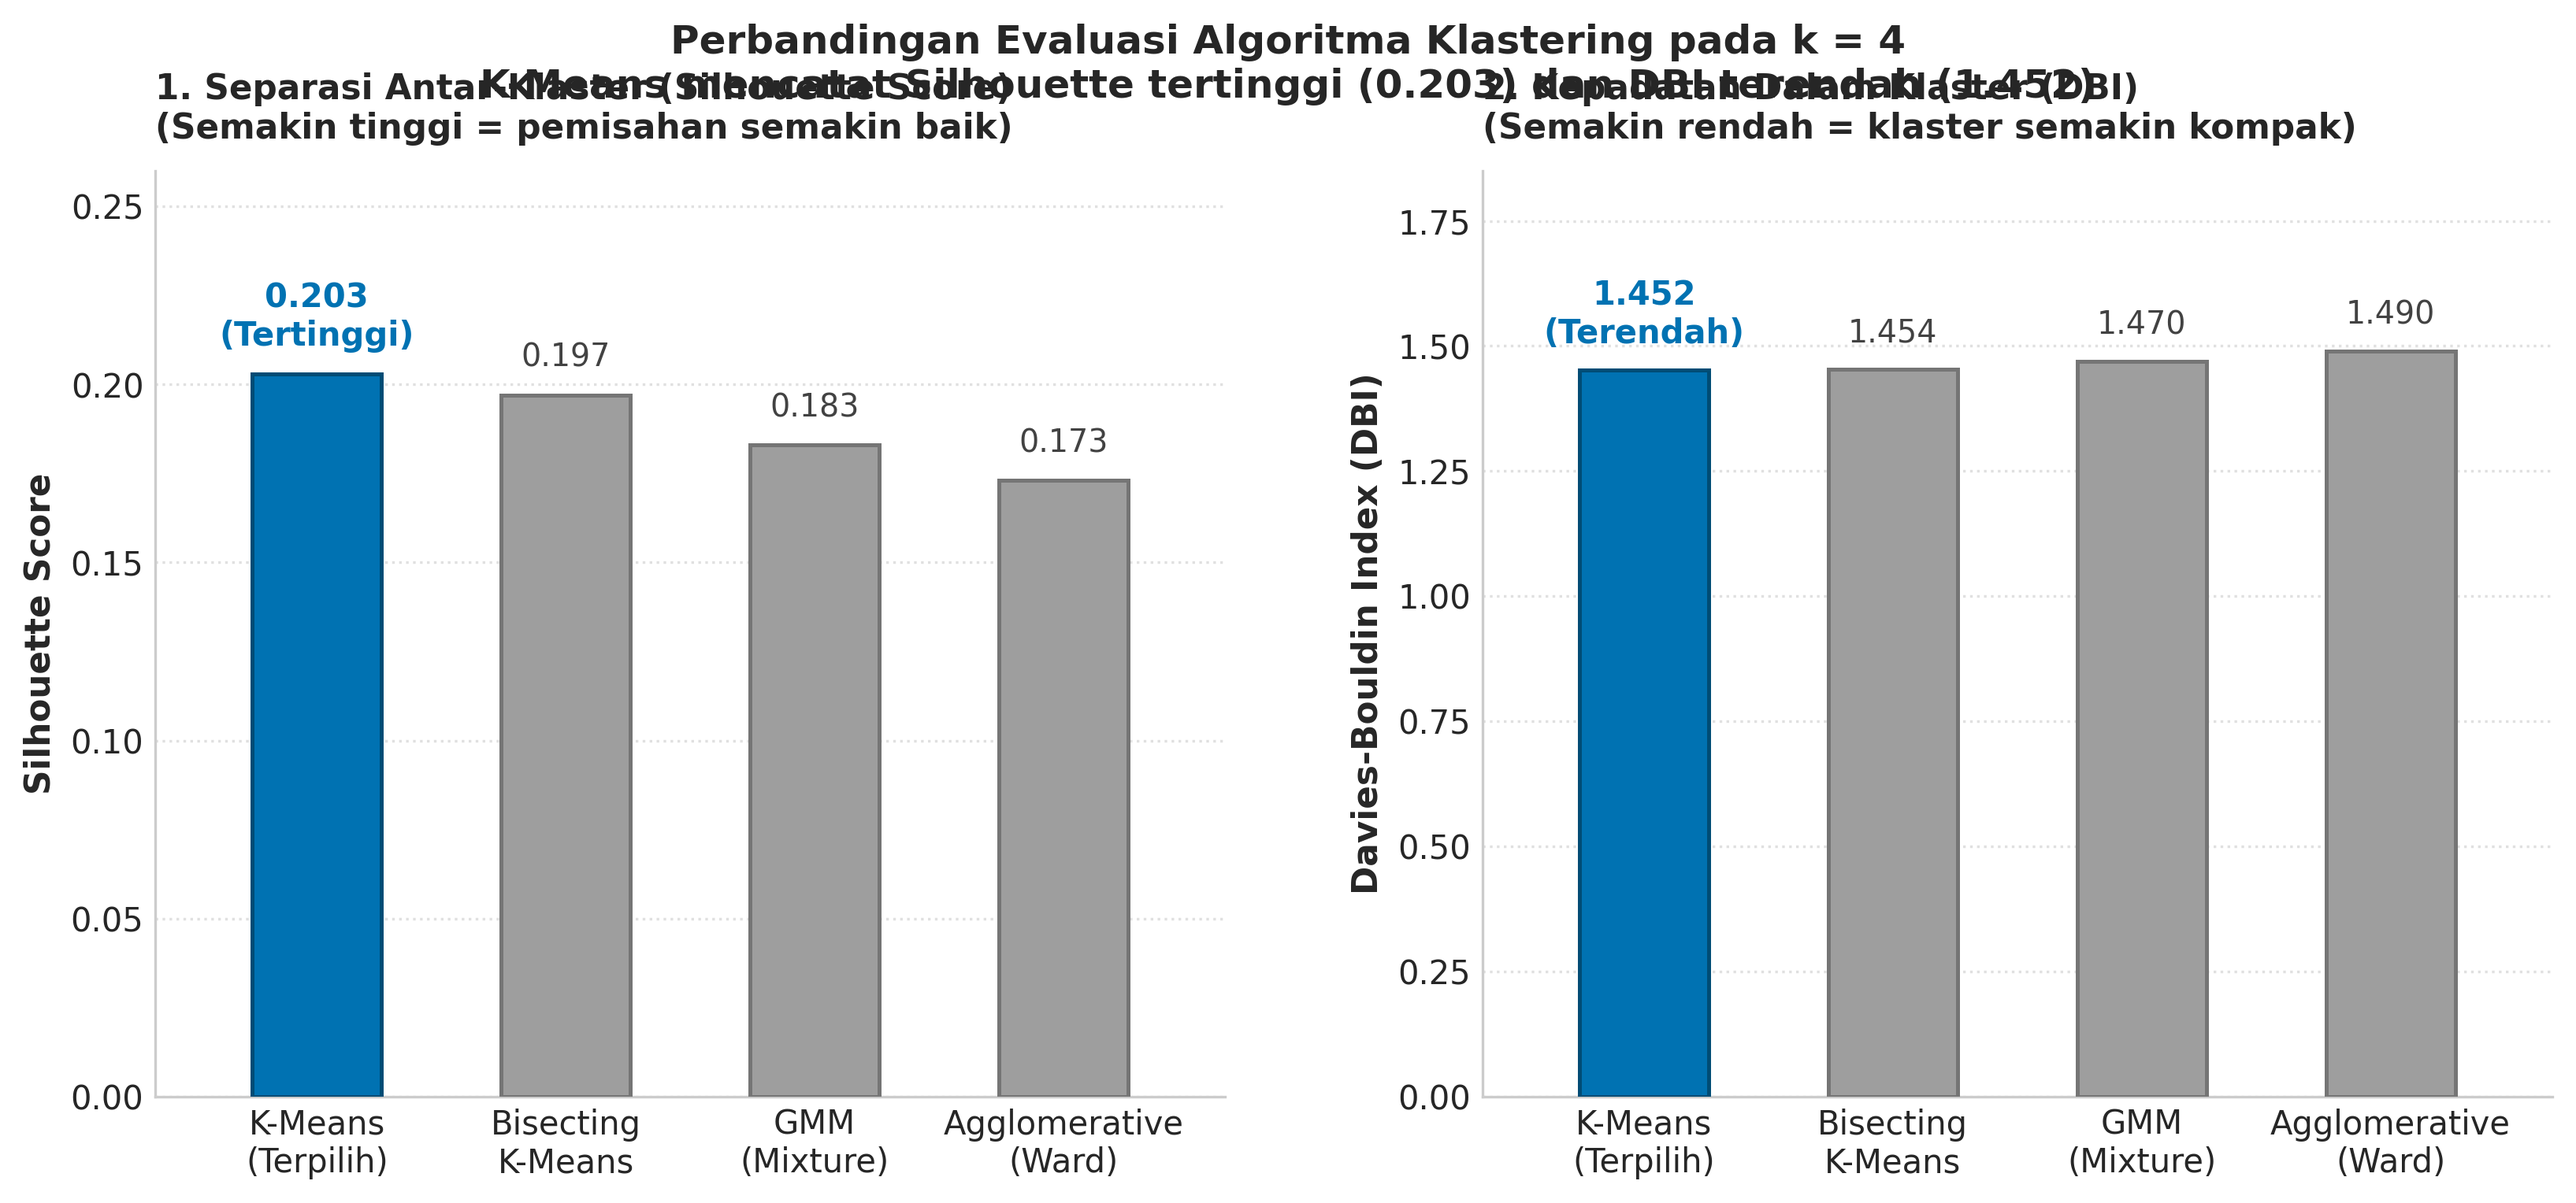
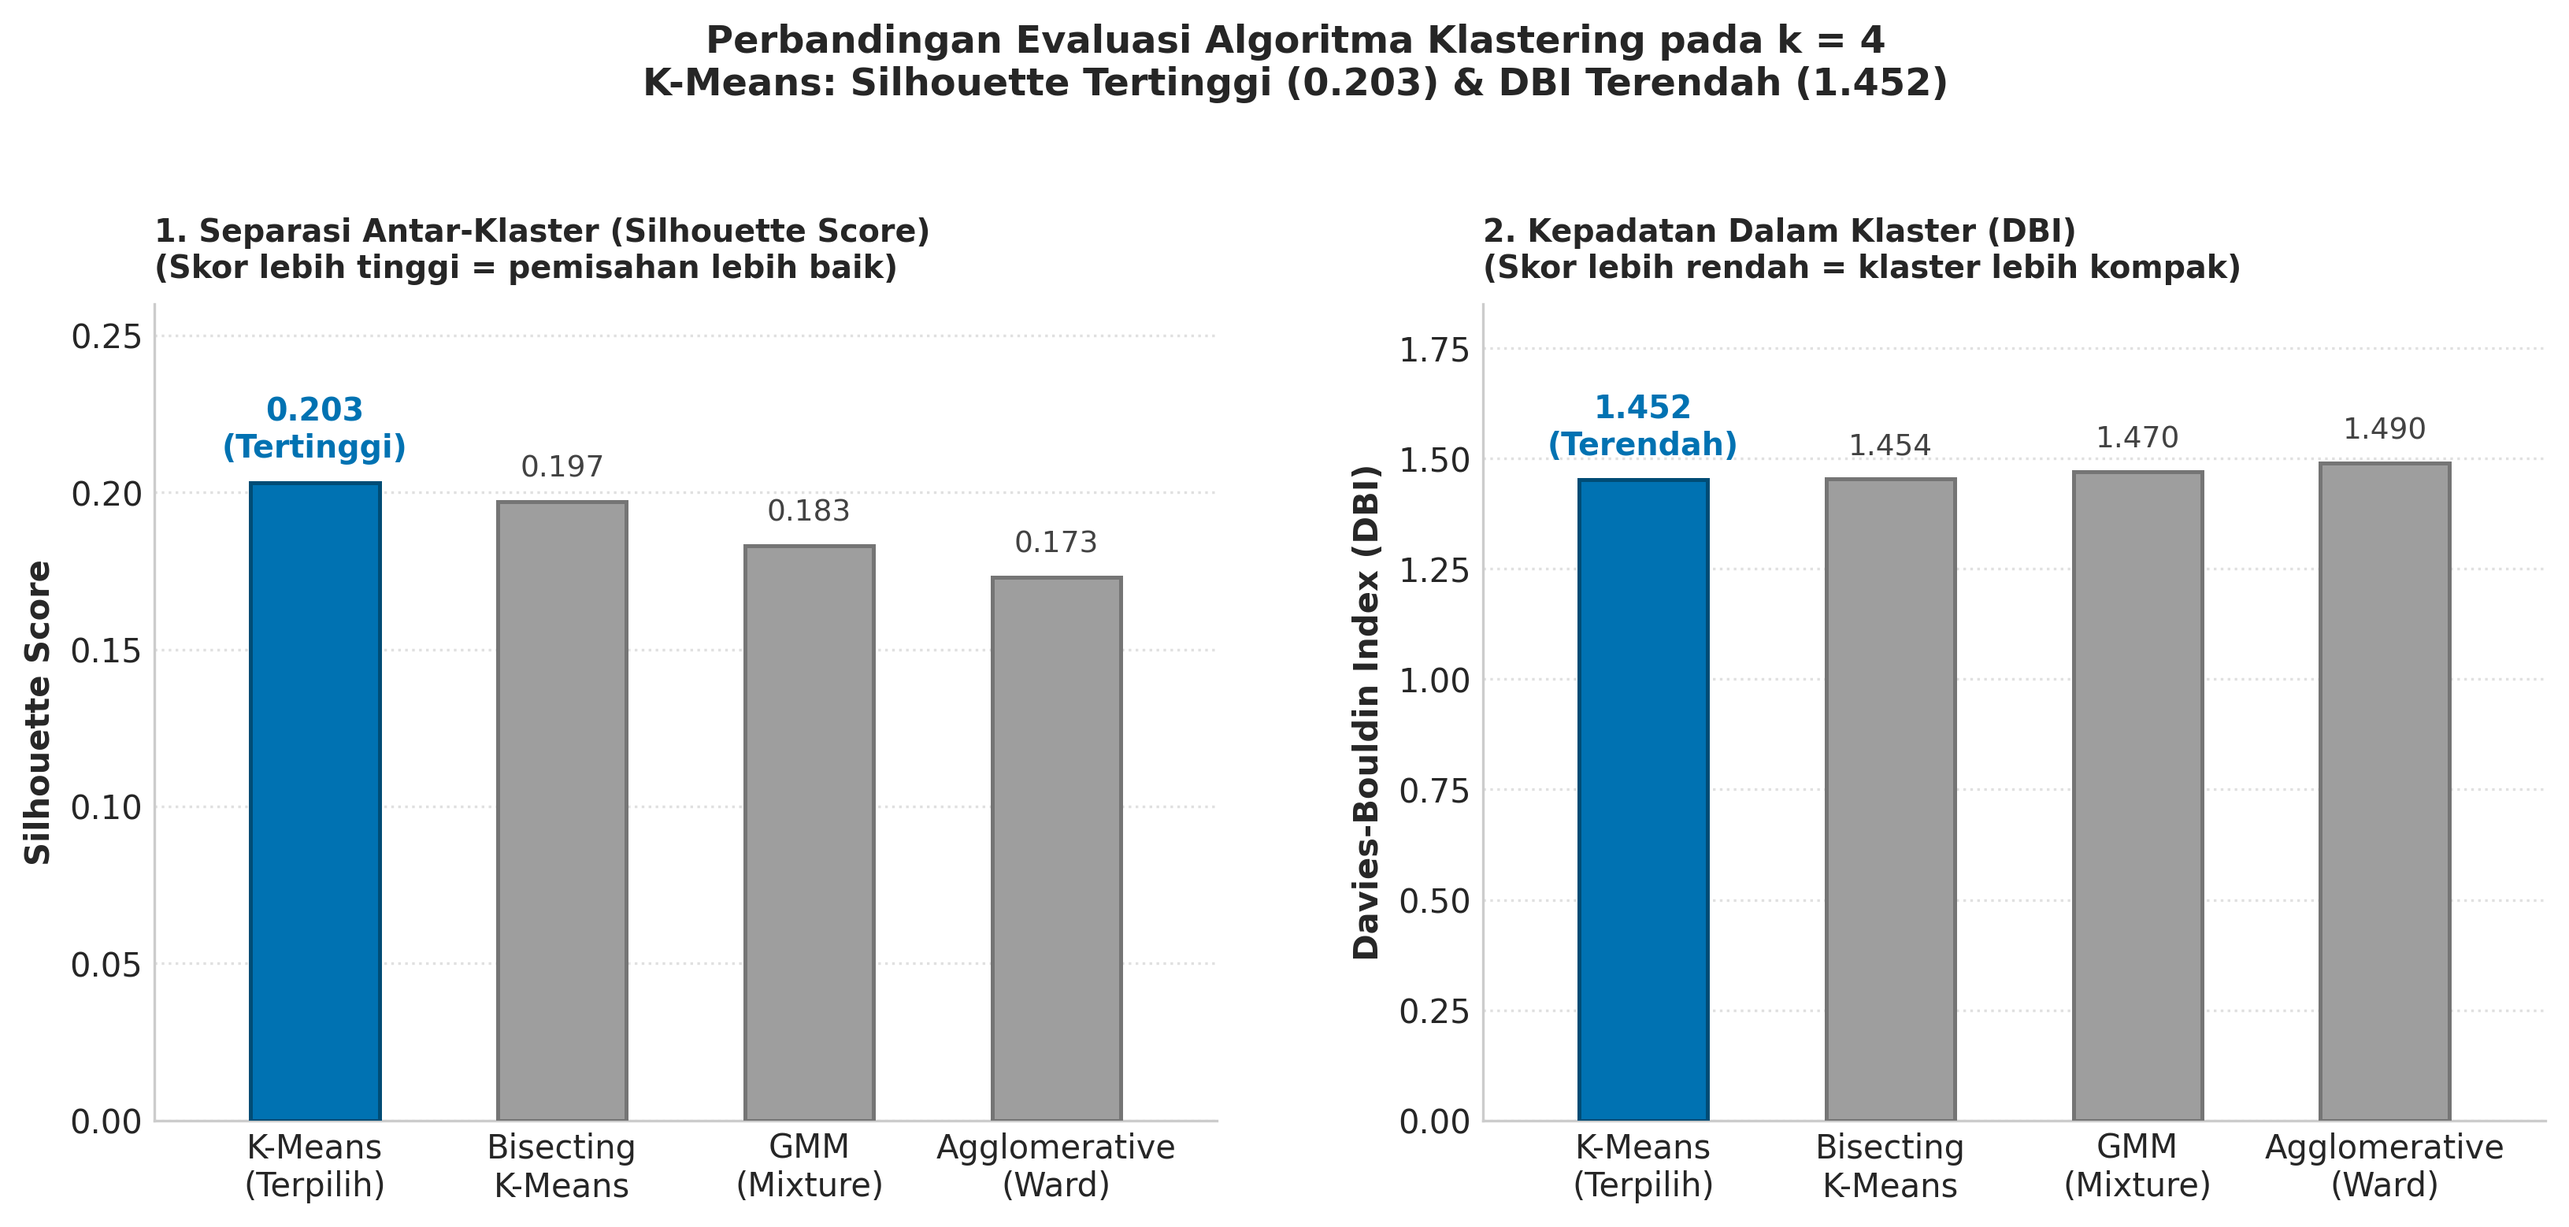
style(viz): fix vertical title collision in algorithm comparison and small multiples

diff --git a/src/poverty_radar/visualization/plots.py b/src/poverty_radar/visualization/plots.py
@@ -46,7 +46,7 @@ def plot_elbow_and_silhouette(X_scaled: np.ndarray, save_path: Optional[Path] = 
 
     fig, (ax1, ax2) = plt.subplots(1, 2, figsize=(11.5, 5.2), dpi=300)
     fig.suptitle('Penentuan Jumlah Klaster (k = 4): Evaluasi Inersia Elbow & Siluet',
-                 fontsize=12.5, fontweight='bold', y=0.97, ha='center')
+                 fontsize=12, fontweight='bold', y=0.98, ha='center')
 
     # Panel 1: Elbow
     ax1.plot(k_range, inertia_km, marker='o', markersize=7, color='#0072B2', linewidth=2.2)
@@ -58,7 +58,7 @@ def plot_elbow_and_silhouette(X_scaled: np.ndarray, save_path: Optional[Path] = 
                  arrowprops=dict(arrowstyle='->', connectionstyle='arc3,rad=0.15', color='#D55E00', lw=1.2),
                  bbox=dict(boxstyle='round,pad=0.25', facecolor='#FFF5EB', edgecolor='#D55E00', alpha=0.9))
     ax1.set_title('1. Evaluasi Inersia WCSS (Elbow)\nLaju penurunan melambat setelah k = 4',
-                  fontsize=10.5, fontweight='bold', loc='left', pad=10)
+                  fontsize=10, fontweight='bold', loc='left', pad=8)
     ax1.set_xlabel('Jumlah Klaster (k)', fontsize=10, fontweight='bold')
     ax1.set_ylabel('Inersia / WCSS', fontsize=10, fontweight='bold')
     ax1.set_xticks(k_range)
@@ -80,15 +80,14 @@ def plot_elbow_and_silhouette(X_scaled: np.ndarray, save_path: Optional[Path] = 
                  arrowprops=dict(arrowstyle='->', connectionstyle='arc3,rad=-0.12', color='#D55E00', lw=1.2),
                  bbox=dict(boxstyle='round,pad=0.25', facecolor='#FFF5EB', edgecolor='#D55E00', alpha=0.9))
     ax2.set_title('2. Evaluasi Separasi (Silhouette Score)\nk = 4 menjaga keterwakilan tanpa penumpukan daerah',
-                  fontsize=10.5, fontweight='bold', loc='left', pad=10)
+                  fontsize=10, fontweight='bold', loc='left', pad=8)
     ax2.set_xlabel('Jumlah Klaster (k)', fontsize=10, fontweight='bold')
     ax2.set_ylabel('Rata-rata Silhouette Score', fontsize=10, fontweight='bold')
     ax2.set_xticks(k_range)
     ax2.set_ylim(0.16, 0.31)
     ax2.grid(True, linestyle=':', alpha=0.5)
 
-    plt.tight_layout()
-    plt.subplots_adjust(top=0.85, wspace=0.22)
+    plt.subplots_adjust(top=0.78, bottom=0.12, left=0.08, right=0.97, wspace=0.22)
     if save_path:
         plt.savefig(save_path, dpi=300, bbox_inches='tight')
     return fig
@@ -97,7 +96,7 @@ def plot_elbow_and_silhouette(X_scaled: np.ndarray, save_path: Optional[Path] = 
 def plot_algorithm_comparison_barchart(save_path: Optional[Path] = None) -> plt.Figure:
     """Figure 09 (Slide 10): Bar chart comparing K-Means vs Bisecting, GMM, Agglomerative at k=4."""
     set_chart_style()
-    fig, (ax1, ax2) = plt.subplots(1, 2, figsize=(11.0, 5.2), dpi=300)
+    fig, (ax1, ax2) = plt.subplots(1, 2, figsize=(11.5, 5.4), dpi=300)
 
     models = ['K-Means\n(Terpilih)', 'Bisecting\nK-Means', 'GMM\n(Mixture)', 'Agglomerative\n(Ward)']
     sil_scores = [0.203, 0.197, 0.183, 0.173]
@@ -111,15 +110,15 @@ def plot_algorithm_comparison_barchart(save_path: Optional[Path] = None) -> plt.
         val = sil_scores[i]
         if i == 0:
             ax1.text(bar.get_x() + bar.get_width()/2, val + 0.006, f"{val:.3f}\n(Tertinggi)", 
-                     ha='center', va='bottom', fontsize=10, fontweight='bold', color='#0072B2')
+                     ha='center', va='bottom', fontsize=9.5, fontweight='bold', color='#0072B2')
         else:
             ax1.text(bar.get_x() + bar.get_width()/2, val + 0.006, f"{val:.3f}", 
-                     ha='center', va='bottom', fontsize=9.5, color='#424242')
+                     ha='center', va='bottom', fontsize=9.0, color='#424242')
     ax1.set_xlim(-0.65, 3.65)
     ax1.set_ylim(0, 0.26)
-    ax1.set_ylabel('Silhouette Score', fontsize=10.5, fontweight='bold')
-    ax1.set_title('1. Separasi Antar-Klaster (Silhouette Score)\n(Semakin tinggi = pemisahan semakin baik)', 
-                  fontsize=10.5, fontweight='bold', pad=10, loc='left')
+    ax1.set_ylabel('Silhouette Score', fontsize=10, fontweight='bold')
+    ax1.set_title('1. Separasi Antar-Klaster (Silhouette Score)\n(Skor lebih tinggi = pemisahan lebih baik)', 
+                  fontsize=9.5, fontweight='bold', pad=8, loc='left')
     ax1.grid(axis='y', linestyle=':', alpha=0.6, zorder=0)
     ax1.grid(axis='x', visible=False)
     ax1.spines['top'].set_visible(False)
@@ -131,26 +130,25 @@ def plot_algorithm_comparison_barchart(save_path: Optional[Path] = None) -> plt.
         val = dbi_scores[i]
         if i == 0:
             ax2.text(bar.get_x() + bar.get_width()/2, val + 0.04, f"{val:.3f}\n(Terendah)", 
-                     ha='center', va='bottom', fontsize=10, fontweight='bold', color='#0072B2')
+                     ha='center', va='bottom', fontsize=9.5, fontweight='bold', color='#0072B2')
         else:
             ax2.text(bar.get_x() + bar.get_width()/2, val + 0.04, f"{val:.3f}", 
-                     ha='center', va='bottom', fontsize=9.5, color='#424242')
+                     ha='center', va='bottom', fontsize=9.0, color='#424242')
     ax2.set_xlim(-0.65, 3.65)
     ax2.set_ylim(0, 1.85)
-    ax2.set_ylabel('Davies-Bouldin Index (DBI)', fontsize=10.5, fontweight='bold')
-    ax2.set_title('2. Kepadatan Dalam Klaster (DBI)\n(Semakin rendah = klaster semakin kompak)', 
-                  fontsize=10.5, fontweight='bold', pad=10, loc='left')
+    ax2.set_ylabel('Davies-Bouldin Index (DBI)', fontsize=10, fontweight='bold')
+    ax2.set_title('2. Kepadatan Dalam Klaster (DBI)\n(Skor lebih rendah = klaster lebih kompak)', 
+                  fontsize=9.5, fontweight='bold', pad=8, loc='left')
     ax2.grid(axis='y', linestyle=':', alpha=0.6, zorder=0)
     ax2.grid(axis='x', visible=False)
     ax2.spines['top'].set_visible(False)
     ax2.spines['right'].set_visible(False)
 
     fig.suptitle('Perbandingan Evaluasi Algoritma Klastering pada k = 4\n'
-                 'K-Means mencatat Silhouette tertinggi (0.203) dan DBI terendah (1.452)', 
-                 fontsize=12, fontweight='bold', y=0.97, ha='center')
+                 'K-Means: Silhouette Tertinggi (0.203) & DBI Terendah (1.452)', 
+                 fontsize=11.5, fontweight='bold', y=0.98, ha='center')
 
-    plt.tight_layout()
-    plt.subplots_adjust(top=0.85, wspace=0.24)
+    plt.subplots_adjust(top=0.76, bottom=0.12, left=0.08, right=0.96, wspace=0.25)
     if save_path:
         plt.savefig(save_path, dpi=300, bbox_inches='tight')
     return fig
@@ -322,7 +320,7 @@ def plot_cluster_small_multiples(df: pd.DataFrame, X_scaled: np.ndarray, save_pa
     fig, axes = plt.subplots(2, 2, figsize=(11.5, 7.5), dpi=300, sharex=True)
     fig.suptitle('Dekomposisi Profil Klaster terhadap Median Nasional\n'
                  'Biru = Capaian di Atas Median | Oranye = Defisit Relatif',
-                 fontsize=12, fontweight='bold', y=0.96, ha='center')
+                 fontsize=11.5, fontweight='bold', y=0.98, ha='center')
 
     subtitles = {
         0: 'Modal Manusia & Daya Beli Tinggi, Kerja Formal Kompetitif',
@@ -353,10 +351,9 @@ def plot_cluster_small_multiples(df: pd.DataFrame, X_scaled: np.ndarray, save_pa
 
         counts = (df['cluster_id'] == cid).sum()
         ax.set_title(f"{CLUSTER_LABELS[cid]} (N={counts})\n{subtitles[cid]}",
-                     fontsize=9.5, fontweight='bold', pad=6, loc='center')
+                     fontsize=9.0, fontweight='bold', pad=6, loc='center')
 
-    plt.tight_layout()
-    plt.subplots_adjust(top=0.86, bottom=0.08, hspace=0.38, wspace=0.25)
+    plt.subplots_adjust(top=0.82, bottom=0.08, left=0.08, right=0.97, hspace=0.38, wspace=0.25)
     if save_path:
         plt.savefig(save_path, dpi=300, bbox_inches='tight')
     return fig
